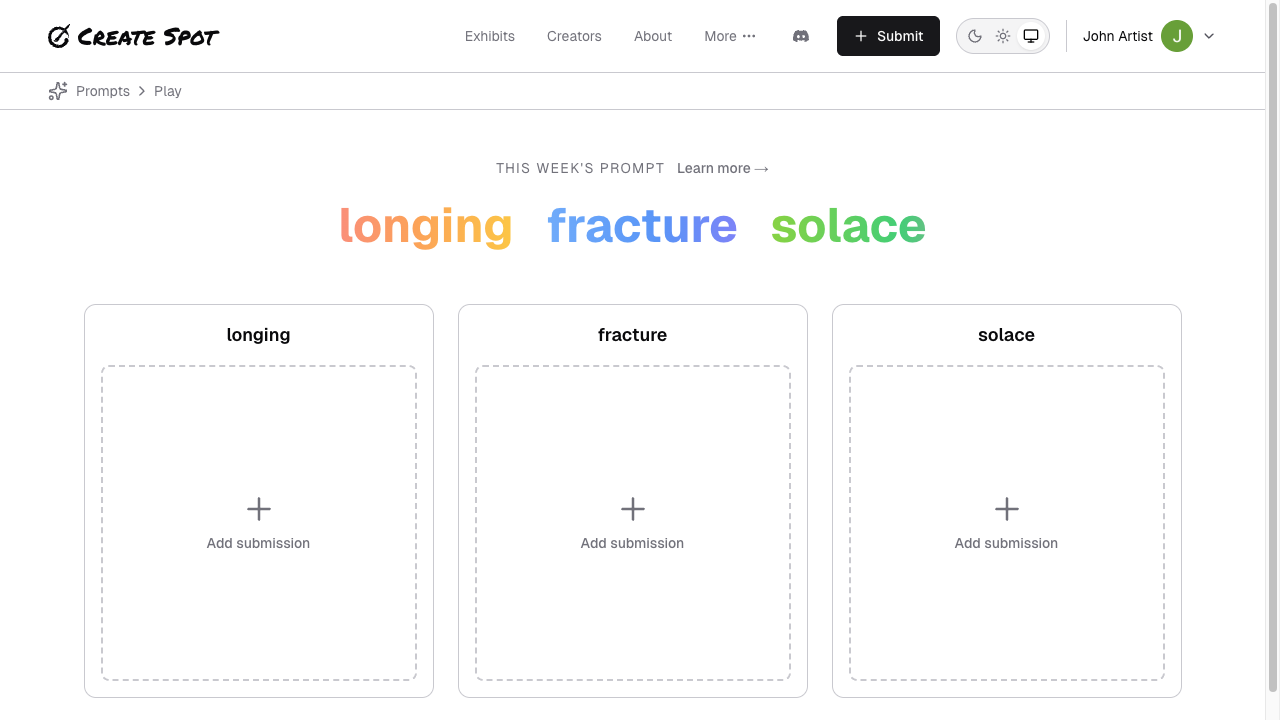
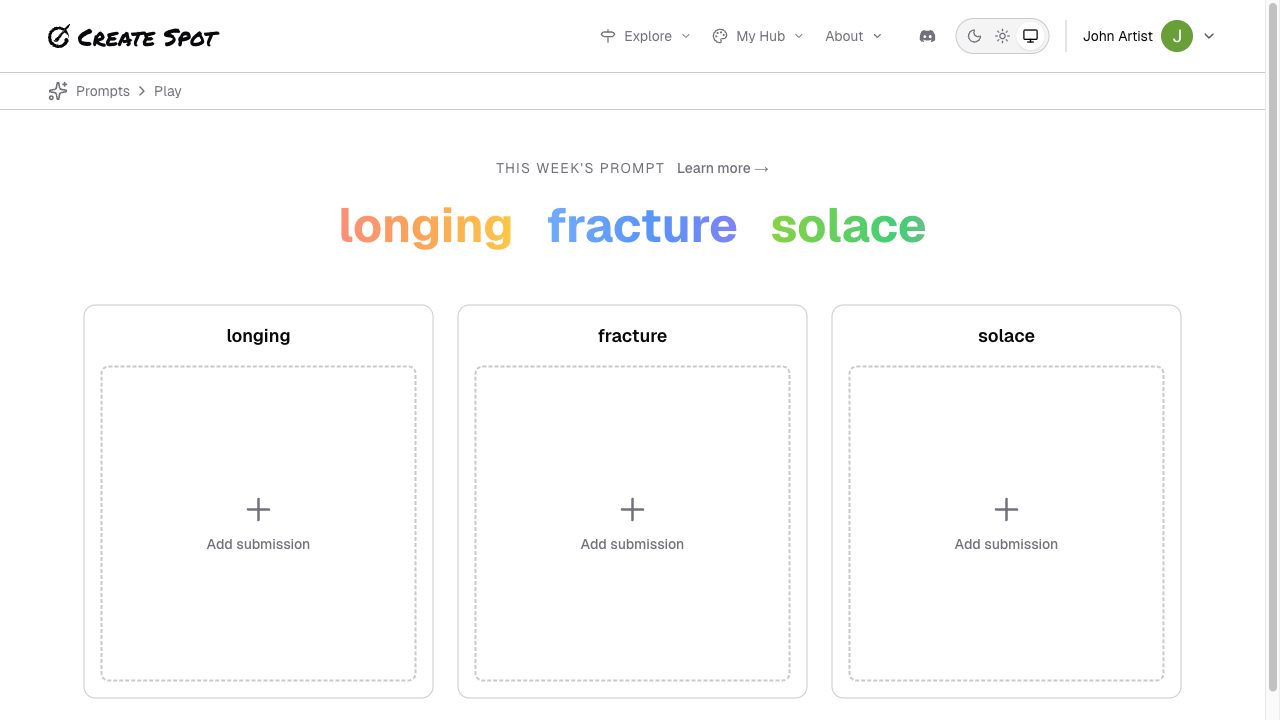
Redo screenshots and screenshots script with updated UI

diff --git a/apps/help/scripts/capture-screenshots.ts b/apps/help/scripts/capture-screenshots.ts
@@ -110,6 +110,67 @@ async function main() {
     }
   }
 
+  // Capture dropdown menus for navigation documentation
+  try {
+    await page.goto(`${BASE_URL}/`, { waitUntil: "domcontentloaded", timeout: 15000 });
+    await page.waitForTimeout(500);
+
+    // Capture Explore dropdown
+    const exploreTrigger = page.locator("button").filter({ hasText: /explore/i }).first();
+    if (await exploreTrigger.isVisible().catch(() => false)) {
+      await exploreTrigger.click();
+      await page.waitForTimeout(400);
+      console.log("Capturing nav-explore-dropdown");
+      await page.screenshot({
+        path: path.join(IMAGES_DIR, "nav-explore-dropdown.png"),
+      });
+      // Close dropdown by pressing Escape
+      await page.keyboard.press("Escape");
+      await page.waitForTimeout(200);
+    }
+
+    // Capture About dropdown
+    const aboutTrigger = page.locator("button").filter({ hasText: /^about$/i }).first();
+    if (await aboutTrigger.isVisible().catch(() => false)) {
+      await aboutTrigger.click();
+      await page.waitForTimeout(400);
+      console.log("Capturing nav-about-dropdown");
+      await page.screenshot({
+        path: path.join(IMAGES_DIR, "nav-about-dropdown.png"),
+      });
+      await page.keyboard.press("Escape");
+      await page.waitForTimeout(200);
+    }
+
+    // Capture My Hub dropdown (requires login)
+    const myHubTrigger = page.locator("button").filter({ hasText: /my hub/i }).first();
+    if (await myHubTrigger.isVisible().catch(() => false)) {
+      await myHubTrigger.click();
+      await page.waitForTimeout(400);
+      console.log("Capturing nav-myhub-dropdown");
+      await page.screenshot({
+        path: path.join(IMAGES_DIR, "nav-myhub-dropdown.png"),
+      });
+      await page.keyboard.press("Escape");
+      await page.waitForTimeout(200);
+    }
+
+    // Capture Admin dropdown (requires admin login)
+    const adminTrigger = page.locator("button").filter({ hasText: /^admin$/i }).first();
+    if (await adminTrigger.isVisible().catch(() => false)) {
+      await adminTrigger.click();
+      await page.waitForTimeout(400);
+      console.log("Capturing nav-admin-dropdown");
+      await page.screenshot({
+        path: path.join(IMAGES_DIR, "nav-admin-dropdown.png"),
+      });
+      await page.keyboard.press("Escape");
+      await page.waitForTimeout(200);
+    }
+  } catch (err) {
+    console.warn("Dropdown navigation capture skipped:", err);
+  }
+
   // Try to capture exhibit grid, path, and map views
   try {
     await page.goto(`${BASE_URL}/exhibition`, { waitUntil: "domcontentloaded", timeout: 15000 });
@@ -171,26 +232,38 @@ async function main() {
     console.warn("Exhibit views capture skipped:", err);
   }
 
-  // Profile editor (requires login: open dropdown -> Profile -> Edit profile)
+  // Profile editor (requires login: open My Hub dropdown -> Profile -> Edit profile)
   try {
     await page.goto(`${BASE_URL}/`, { waitUntil: "domcontentloaded", timeout: 15000 });
     await page.waitForTimeout(500);
-    const userMenuTrigger = page.locator("header button").filter({ has: page.locator("img") }).first();
-    if (await userMenuTrigger.isVisible()) {
-      await userMenuTrigger.click();
+
+    // Look for "My Hub" dropdown trigger in the navigation
+    const myHubTrigger = page.locator("button, a").filter({ hasText: /my hub|hub/i }).first();
+    if (await myHubTrigger.isVisible().catch(() => false)) {
+      await myHubTrigger.click();
       await page.waitForTimeout(400);
+
+      // Click on "Profile" in the dropdown
       const profileLink = page.getByRole("menuitem", { name: /profile/i }).first();
-      await profileLink.click();
-      await page.waitForURL(/\/creators\//, { timeout: 10000 });
-      await page.waitForTimeout(800);
-      const editLink = page.getByRole("link", { name: /edit profile|edit/i });
-      await editLink.first().click();
-      await page.waitForURL(/\/creators\/[^/]+\/edit/, { timeout: 10000 });
-      await page.waitForTimeout(800);
-      console.log("Capturing profile-edit");
-      await page.screenshot({
-        path: path.join(IMAGES_DIR, "profile-edit.png"),
-      });
+      if (await profileLink.isVisible().catch(() => false)) {
+        await profileLink.click();
+        await page.waitForURL(/\/creators\//, { timeout: 10000 });
+        await page.waitForTimeout(800);
+
+        // Look for edit link/button on profile page
+        const editLink = page.getByRole("link", { name: /edit profile|edit/i });
+        if (await editLink.first().isVisible().catch(() => false)) {
+          await editLink.first().click();
+          await page.waitForURL(/\/creators\/[^/]+\/edit/, { timeout: 10000 });
+          await page.waitForTimeout(800);
+          console.log("Capturing profile-edit");
+          await page.screenshot({
+            path: path.join(IMAGES_DIR, "profile-edit.png"),
+          });
+        }
+      }
+    } else {
+      console.warn("My Hub dropdown not found; skipping profile editor capture.");
     }
   } catch (err) {
     console.warn("Profile editor capture skipped:", err);
